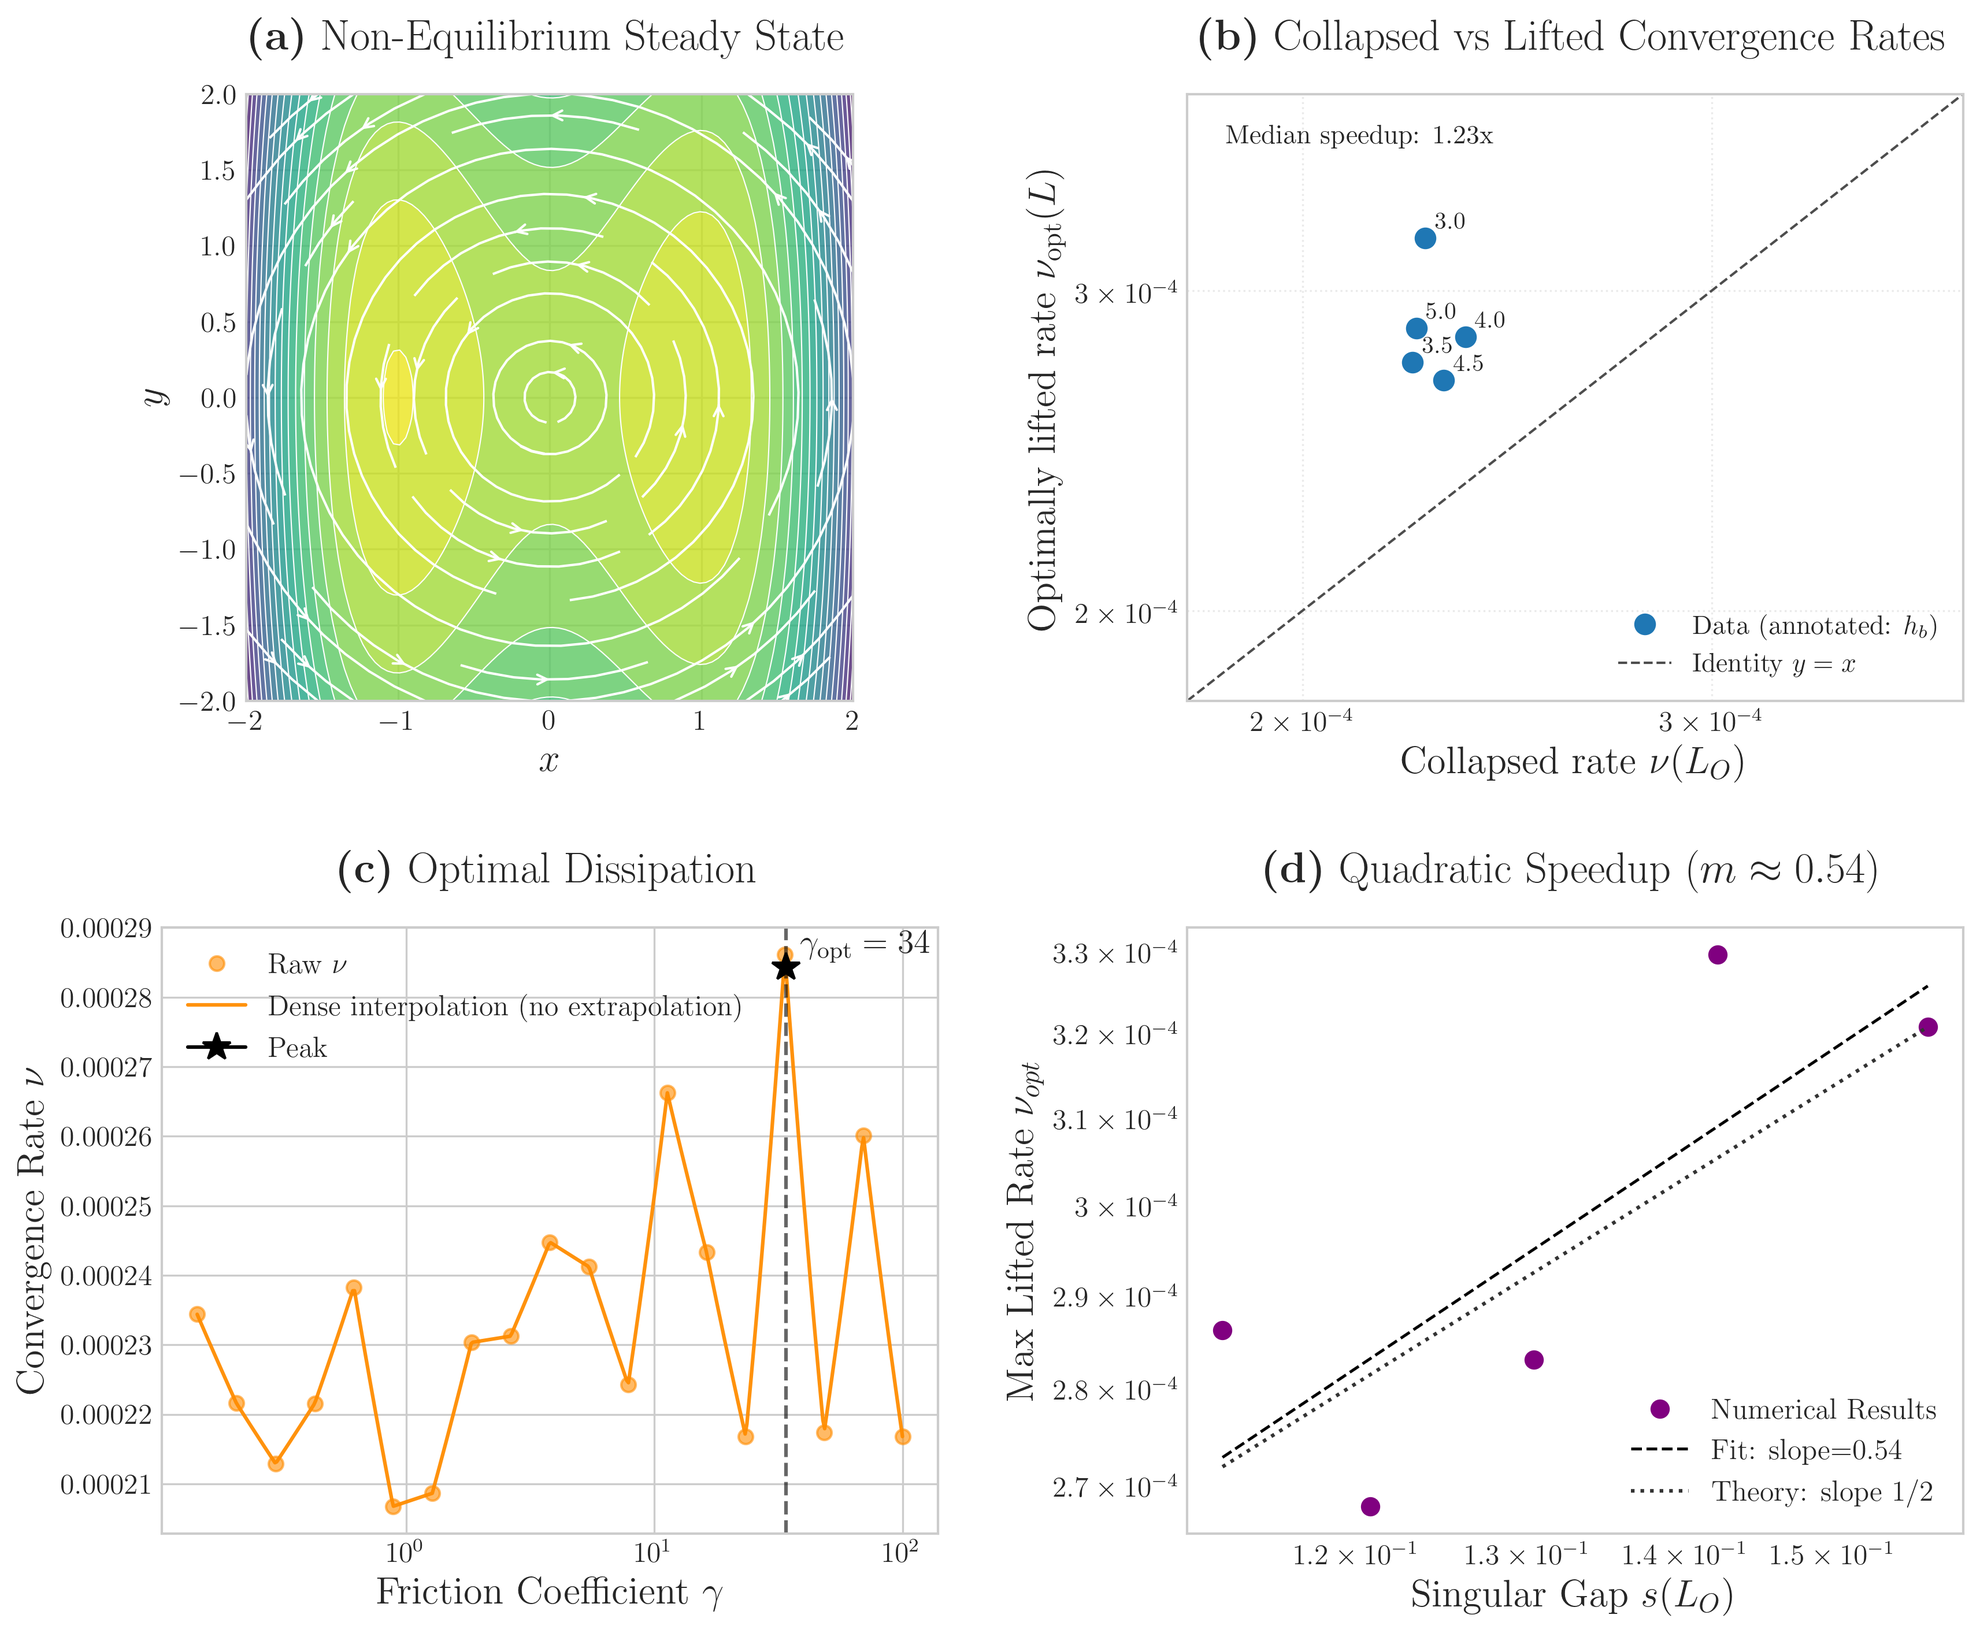
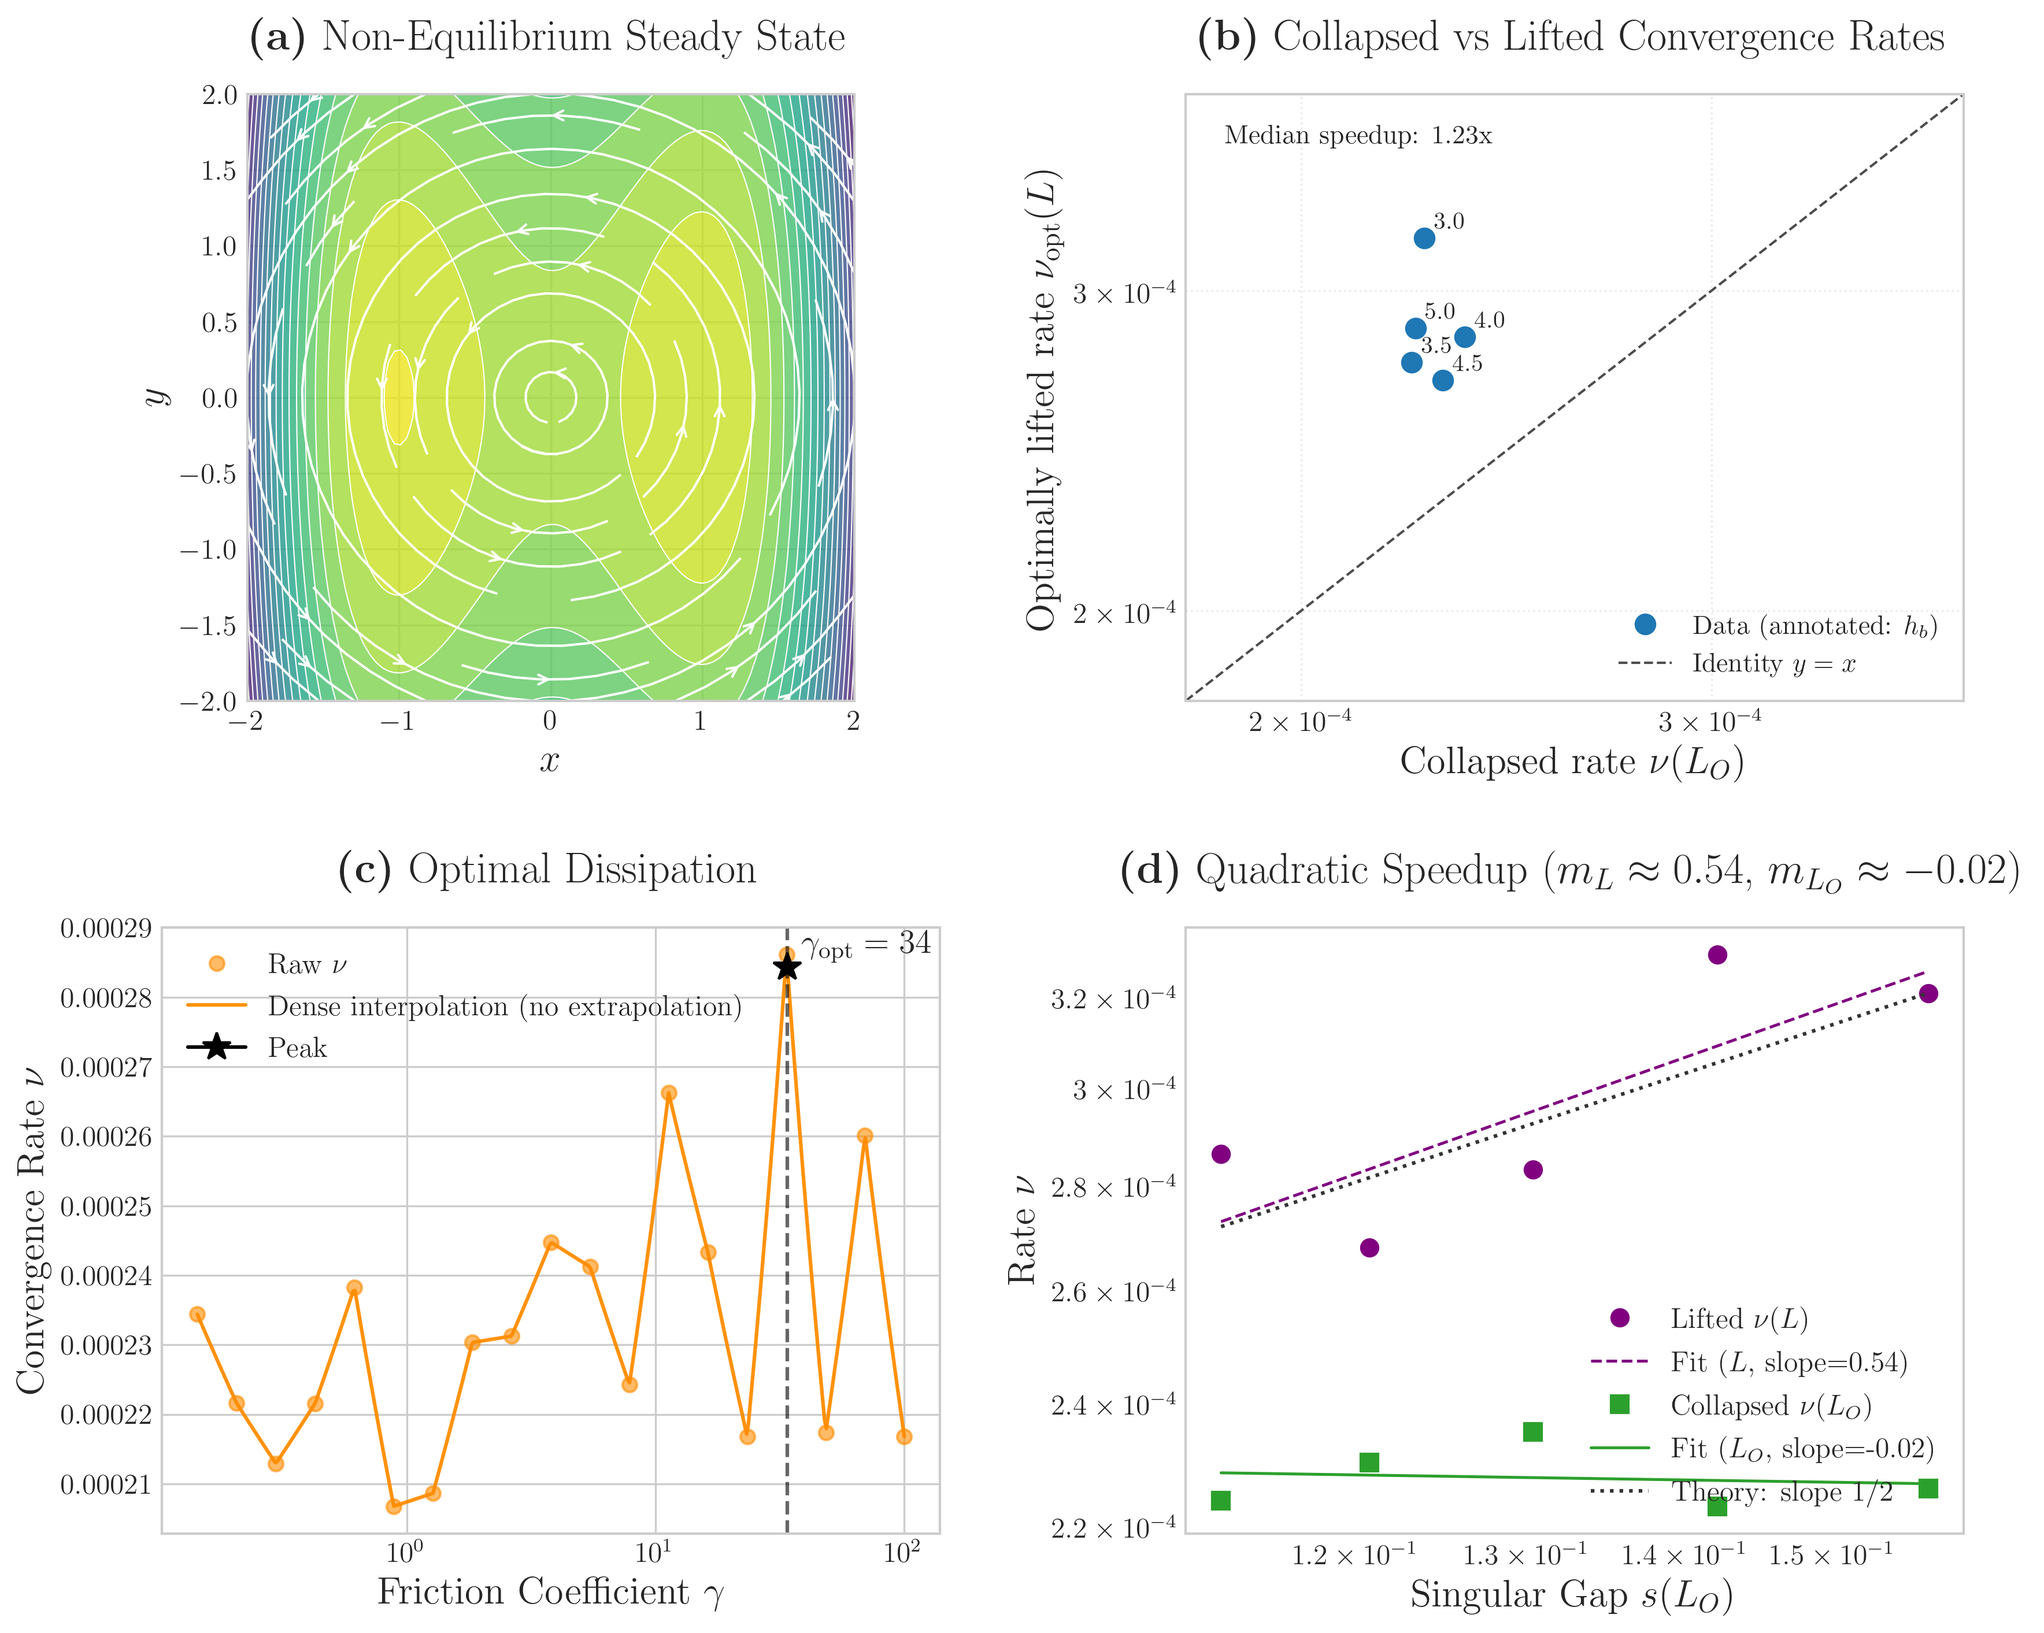
update figure d

diff --git a/diffusion/diffusion_simulation.py b/diffusion/diffusion_simulation.py
@@ -786,9 +786,7 @@ def create_publication_figure(results):
 
     # --- Panel (d): Quadratic Speedup ---
     ax_d = fig.add_subplot(gs[1, 1])
-    s_L_O_vals = np.array([r['s_L_O'] for r in results])
-    # use median-based optimal rates across results
-    # compute bootstrapped nu_opt distributions if repeats are available
+    s_L_O_all = np.array([r['s_L_O'] for r in results], dtype=float)
     quick_flag = os.environ.get('ZENO_QUICK', '0') == '1'
     B = 100 if quick_flag else 200
     nu_max_vals = []
@@ -832,72 +830,107 @@ def create_publication_figure(results):
             nu_log_vars.append(np.nan)
             nu_ci_low.append(np.nan)
             nu_ci_high.append(np.nan)
-    nu_max_vals = np.array(nu_max_vals)
-    nu_log_vars = np.array(nu_log_vars)
-    nu_ci_low = np.array(nu_ci_low)
-    nu_ci_high = np.array(nu_ci_high)
-    
-    valid_data = ~np.isnan(s_L_O_vals) & ~np.isnan(nu_max_vals)
-    s_L_O_vals = s_L_O_vals[valid_data]
-    nu_max_vals = nu_max_vals[valid_data]
 
-    # plot errorbars for nu (CI) when available on log-log axes for clarity
+    nu_max_vals = np.array(nu_max_vals, dtype=float)
+    nu_log_vars = np.array(nu_log_vars, dtype=float)
+    nu_ci_low = np.array(nu_ci_low, dtype=float)
+    nu_ci_high = np.array(nu_ci_high, dtype=float)
+    nu_collapsed_all = np.array([r.get('nu_collapsed', np.nan) for r in results], dtype=float)
+
     ax_d.set_xscale('log')
     ax_d.set_yscale('log')
-    # protect against zero/negative values
-    positive = (s_L_O_vals > 0) & (nu_max_vals > 0)
-    if np.any(positive):
-        x_pts = s_L_O_vals[positive]
-        y_pts = nu_max_vals[positive]
-        # y-errorbars from CI
-        yerr_low = y_pts - nu_ci_low[positive]
-        yerr_high = nu_ci_high[positive] - y_pts
-        # Do not plot error bars (bootstrap CI are noisy for small sample sizes). Plot only points.
-        ax_d.plot(x_pts, y_pts, 'o', color='purple', markersize=7, label='Numerical Results')
 
-        # Fit and plot scaling law (robust log-log fit with simple sigma-clipping)
-        if x_pts.size > 1:
-            log_s = np.log(x_pts)
-            log_nu = np.log(y_pts)
+    def _plot_with_fit(x_vals, y_vals, marker, color, label_points, fit_label, linestyle='--'):
+        mask = np.isfinite(x_vals) & np.isfinite(y_vals) & (x_vals > 0) & (y_vals > 0)
+        if not np.any(mask):
+            return None
+        x_sel = x_vals[mask]
+        y_sel = y_vals[mask]
+        ax_d.plot(x_sel, y_sel, marker, color=color, markersize=7, label=label_points)
 
-            mask = np.ones_like(log_s, dtype=bool)
+        slope = None
+        if x_sel.size > 1:
+            log_x = np.log(x_sel)
+            log_y = np.log(y_sel)
+            fit_mask = np.ones_like(log_x, dtype=bool)
             for _ in range(3):
-                if mask.sum() < 2:
+                if fit_mask.sum() < 2:
                     break
-                coeffs = np.polyfit(log_s[mask], log_nu[mask], 1)
-                pred = coeffs[0] * log_s + coeffs[1]
-                resid = log_nu - pred
-                sigma = np.nanstd(resid[mask])
+                coeffs = np.polyfit(log_x[fit_mask], log_y[fit_mask], 1)
+                pred = coeffs[0] * log_x + coeffs[1]
+                resid = log_y - pred
+                sigma = np.nanstd(resid[fit_mask])
                 sigma = max(sigma, 1e-12)
-                mask = np.abs(resid) < 2.0 * sigma
+                fit_mask = np.abs(resid) < 2.0 * sigma
+            if fit_mask.sum() >= 2:
+                coeffs = np.polyfit(log_x[fit_mask], log_y[fit_mask], 1)
+                slope = coeffs[0]
+                intercept = coeffs[1]
+                x_fit = np.logspace(np.log10(x_sel.min()), np.log10(x_sel.max()), 200)
+                y_fit = np.exp(intercept) * (x_fit ** slope)
+                ax_d.plot(x_fit, y_fit, linestyle, color=color, lw=1.2, label=fit_label.format(slope=slope))
 
-            if mask.sum() >= 2:
-                # final (unweighted) fit on clipped data
-                coeffs = np.polyfit(log_s[mask], log_nu[mask], 1)
-                fit_slope = coeffs[0]
-                fit_intercept = coeffs[1]
-                # prepare fit curve
-                x_fit = np.logspace(np.log10(x_pts.min()), np.log10(x_pts.max()), 200)
-                y_fit = np.exp(fit_intercept) * (x_fit ** fit_slope)
-                ax_d.plot(x_fit, y_fit, 'k--', lw=1.2, label=f'Fit: slope={fit_slope:.2f}')
-            else:
-                fit_slope = np.nan
+        return {
+            'slope': slope,
+            'x': x_sel,
+            'y': y_sel
+        }
 
-        # Theoretical reference (slope 1/2)
-        x_ref = np.logspace(np.log10(x_pts.min()), np.log10(x_pts.max()), 100)
-        y_ref = (x_ref ** 0.5) * (y_pts[0] / (x_pts[0] ** 0.5))
+    opt_info = _plot_with_fit(s_L_O_all, nu_max_vals, 'o', 'purple', r'Lifted $\nu(L)$', 'Fit ($L$, slope={slope:.2f})')
+    lo_info = _plot_with_fit(s_L_O_all, nu_collapsed_all, 's', 'tab:green', r'Collapsed $\nu(L_O)$', 'Fit ($L_O$, slope={slope:.2f})', linestyle='-')
+
+    x_arrays = []
+    if opt_info:
+        x_arrays.append(opt_info['x'])
+    if lo_info:
+        x_arrays.append(lo_info['x'])
+    if x_arrays:
+        x_all = np.concatenate(x_arrays)
+    else:
+        x_all = np.array([])
+
+    if x_all.size >= 2:
+        x_ref = np.logspace(np.log10(x_all.min()), np.log10(x_all.max()), 100)
+    else:
+        x_ref = np.array([])
+
+    base_const = None
+    if opt_info and opt_info['x'].size > 0:
+        base_const = opt_info['y'][0] / (opt_info['x'][0] ** 0.5)
+    elif lo_info and lo_info['x'].size > 0:
+        base_const = lo_info['y'][0] / (lo_info['x'][0] ** 0.5)
+
+    if x_ref.size > 0 and base_const is not None and np.isfinite(base_const):
+        y_ref = base_const * (x_ref ** 0.5)
         ax_d.plot(x_ref, y_ref, color='0.2', linestyle=':', lw=1.5, label=r'Theory: slope $1/2$')
 
-        if not np.isnan(fit_slope):
-            ax_d.set_title(r'\textbf{{(d)}} Quadratic Speedup ($m \approx {:.2f}$)'.format(fit_slope), y=1.05)
-        else:
-            ax_d.set_title(r'\textbf{(d)} Quadratic Speedup', y=1.05)
+    if opt_info:
+        slope_opt = opt_info['slope']
     else:
-        ax_d.text(0.5, 0.5, 'Insufficient positive data for panel (d)', ha='center', va='center')
-        ax_d.set_title(r'\textbf{(d)} Quadratic Speedup', y=1.05)
+        slope_opt = None
+    if lo_info:
+        slope_lo = lo_info['slope']
+    else:
+        slope_lo = None
 
+    title_terms = []
+    if slope_opt is not None and np.isfinite(slope_opt):
+        # put \mathrm inside math mode so LaTeX accepts it
+        title_terms.append('$' + r'm_{L}\approx' + f'{slope_opt:.2f}' + '$')
+    if slope_lo is not None and np.isfinite(slope_lo):
+        title_terms.append('$' + r'm_{L_O}\approx' + f'{slope_lo:.2f}' + '$')
+
+    if title_terms:
+        title_text = r'\textbf{(d)} Quadratic Speedup (' + ', '.join(title_terms) + ')'
+    else:
+        title_text = r'\textbf{(d)} Quadratic Speedup'
+
+    if not opt_info and not lo_info:
+        ax_d.text(0.5, 0.5, 'Insufficient positive data for panel (d)', ha='center', va='center')
+
+    ax_d.set_title(title_text, y=1.05)
     ax_d.set_xlabel(r'Singular Gap $s(L_O)$')
-    ax_d.set_ylabel(r'Max Lifted Rate $\nu_{opt}$')
+    ax_d.set_ylabel(r'Rate $\nu$')
     ax_d.legend(loc='lower right')
 
     plt.tight_layout(pad=2.0)

diff --git a/spin/spin_simulation.py b/spin/spin_simulation.py
@@ -1023,50 +1023,105 @@ def create_publication_figure(results):
 
     # --- Panel (d): Quadratic Speedup ---
     ax_d = fig.add_subplot(gs[1, 1])
-    s_L_O_vals = np.array([enriched.get('s_L_O_display', enriched['s_L_O'] * S_LO_DISPLAY_SCALE) for enriched in enriched_results])
-    nu_max_vals = np.array([enriched.get('nu_max', np.nan) for enriched in enriched_results])
-    
-    valid_data = np.isfinite(s_L_O_vals) & np.isfinite(nu_max_vals) & (s_L_O_vals > 0) & (nu_max_vals > 0)
-    
-    if valid_data.sum() >= 2:
-        x_pts = s_L_O_vals[valid_data]
-        y_pts = nu_max_vals[valid_data]
-        # Check for meaningful spread in x and y before attempting a log-log fit
-        x_spread_ok = (np.isfinite(x_pts).all() and x_pts.max() / (x_pts.min() + 1e-30) > 1.02)
-        y_spread_ok = (np.isfinite(y_pts).all() and y_pts.max() / (y_pts.min() + 1e-30) > 1.02)
+    s_L_O_all = np.array(
+        [enriched.get('s_L_O_display', enriched['s_L_O'] * S_LO_DISPLAY_SCALE) for enriched in enriched_results],
+        dtype=float,
+    )
+    nu_opt_all = np.array([enriched.get('nu_max', np.nan) for enriched in enriched_results], dtype=float)
+    nu_collapsed_all = np.array([enriched.get('nu_collapsed', np.nan) for enriched in enriched_results], dtype=float)
 
-        if x_spread_ok and y_spread_ok and (x_pts.min() > 0) and (y_pts.min() > 0):
-            ax_d.set_xscale('log')
-            ax_d.set_yscale('log')
-            ax_d.plot(x_pts, y_pts, 'o', color='purple', markersize=7, label='Numerical Results')
+    ax_d.set_xscale('log')
+    ax_d.set_yscale('log')
 
-            # Fit and plot scaling law
-            log_s = np.log10(x_pts)
-            log_nu = np.log10(y_pts)
-            coeffs = np.polyfit(log_s, log_nu, 1)
-            fit_slope = coeffs[0]
-            fit_intercept = coeffs[1]
+    def _plot_with_fit(x_vals, y_vals, marker, color, label_points, fit_label, linestyle='--'):
+        mask = np.isfinite(x_vals) & np.isfinite(y_vals) & (x_vals > 0) & (y_vals > 0)
+        if not np.any(mask):
+            return None
 
-            x_fit = np.logspace(np.log10(x_pts.min()), np.log10(x_pts.max()), 100)
-            y_fit = (10**fit_intercept) * (x_fit ** fit_slope)
-            ax_d.plot(x_fit, y_fit, 'k--', lw=1.2, label=f'Fit: slope={fit_slope:.2f}')
+        x_sel = x_vals[mask]
+        y_sel = y_vals[mask]
+        ax_d.plot(x_sel, y_sel, marker, color=color, markersize=7, label=label_points)
 
-            # Theoretical reference (slope 1/2)
-            y_ref = (x_fit ** 0.5) * (y_pts[0] / (x_pts[0] ** 0.5)) # Rescaled
-            ax_d.plot(x_fit, y_ref, color='0.2', linestyle=':', lw=1.5, label=r'Theory: slope $1/2$')
+        slope = None
+        if x_sel.size > 1:
+            log_x = np.log(x_sel)
+            log_y = np.log(y_sel)
+            fit_mask = np.ones_like(log_x, dtype=bool)
+            for _ in range(3):
+                if fit_mask.sum() < 2:
+                    break
+                coeffs = np.polyfit(log_x[fit_mask], log_y[fit_mask], 1)
+                pred = coeffs[0] * log_x + coeffs[1]
+                resid = log_y - pred
+                sigma = np.nanstd(resid[fit_mask])
+                sigma = max(sigma, 1e-12)
+                fit_mask = np.abs(resid) < 2.0 * sigma
+            if fit_mask.sum() >= 2:
+                coeffs = np.polyfit(log_x[fit_mask], log_y[fit_mask], 1)
+                slope = coeffs[0]
+                intercept = coeffs[1]
+                x_fit = np.logspace(np.log10(x_sel.min()), np.log10(x_sel.max()), 200)
+                y_fit = np.exp(intercept) * (x_fit ** slope)
+                ax_d.plot(x_fit, y_fit, linestyle, color=color, lw=1.2, label=fit_label.format(slope=slope))
 
-            ax_d.set_title(r'\textbf{{(d)}} Quadratic Speedup ($m \approx {:.2f}$)'.format(fit_slope), pad=12)
-        else:
-            # Not enough spread to perform a meaningful fit. Show raw points (with small jitter) and a note.
-            ax_d.plot(np.arange(len(y_pts)), y_pts, 'o', color='purple', markersize=7, label='Numerical Results (no fit)')
-            ax_d.set_xscale('linear')
-            ax_d.set_yscale('log' if (y_pts.min() > 0 and y_pts.max()/y_pts.min() > 1.2) else 'linear')
-            ax_d.set_title(r'\textbf{(d)} Quadratic Speedup (insufficient spread for fit)', pad=12)
-            ax_d.text(0.5, 0.9, 'Insufficient variation in singular gap or rates to fit a scaling law.', transform=ax_d.transAxes, ha='center', va='top', fontsize=9)
-            ax_d.set_xlabel('Index (insufficient spread in s(L_O))')
+        return {
+            'slope': slope,
+            'x': x_sel,
+            'y': y_sel,
+        }
+
+    opt_info = _plot_with_fit(s_L_O_all, nu_opt_all, 'o', 'purple', r'Lifted $\nu(L)$', 'Fit ($L$, slope={slope:.2f})')
+    collapsed_info = _plot_with_fit(
+        s_L_O_all,
+        nu_collapsed_all,
+        's',
+        'tab:green',
+        r'Collapsed $\nu(L_O)$',
+        'Fit ($L_O$, slope={slope:.2f})',
+        linestyle='-'
+    )
+
+    x_arrays = []
+    if opt_info:
+        x_arrays.append(opt_info['x'])
+    if collapsed_info:
+        x_arrays.append(collapsed_info['x'])
+    x_all = np.concatenate(x_arrays) if x_arrays else np.array([])
+
+    if opt_info and opt_info['x'].size > 0:
+        base_const = opt_info['y'][0] / (opt_info['x'][0] ** 0.5)
+    elif collapsed_info and collapsed_info['x'].size > 0:
+        base_const = collapsed_info['y'][0] / (collapsed_info['x'][0] ** 0.5)
     else:
-        ax_d.text(0.5, 0.5, 'Insufficient data for plot (d)', ha='center', va='center')
-    ax_d.set_title(r'\textbf{(d)} Quadratic Speedup', pad=12)
+        base_const = None
+
+    if x_all.size >= 2:
+        x_ref = np.logspace(np.log10(x_all.min()), np.log10(x_all.max()), 100)
+    else:
+        x_ref = np.array([])
+
+    if x_ref.size > 0 and base_const is not None and np.isfinite(base_const):
+        y_ref = base_const * (x_ref ** 0.5)
+        ax_d.plot(x_ref, y_ref, color='0.2', linestyle=':', lw=1.5, label=r'Theory: slope $1/2$')
+
+    slope_opt = opt_info['slope'] if opt_info else None
+    slope_collapsed = collapsed_info['slope'] if collapsed_info else None
+
+    title_terms = []
+    if slope_opt is not None and np.isfinite(slope_opt):
+        title_terms.append('$' + r'm_{L}\approx' + f'{slope_opt:.2f}' + '$')
+    if slope_collapsed is not None and np.isfinite(slope_collapsed):
+        title_terms.append('$' + r'm_{L_O}\approx' + f'{slope_collapsed:.2f}' + '$')
+
+    if title_terms:
+        title_text = r'\textbf{(d)} Quadratic Speedup (' + ', '.join(title_terms) + ')'
+    else:
+        title_text = r'\textbf{(d)} Quadratic Speedup'
+
+    if not opt_info and not collapsed_info:
+        ax_d.text(0.5, 0.5, 'Insufficient positive data for plot (d)', ha='center', va='center')
+
+    ax_d.set_title(title_text, pad=12)
 
     if S_LO_DISPLAY_SCALE != 1.0:
         xlabel = rf'Singular Gap $s(L_O)$ (display × {S_LO_DISPLAY_SCALE:.2g})'
@@ -1074,7 +1129,7 @@ def create_publication_figure(results):
     else:
         xlabel = r'Singular Gap $s(L_O)$'
     ax_d.set_xlabel(xlabel)
-    ax_d.set_ylabel(r'Max Lifted Rate $\nu_{\mathrm{opt}}$')
+    ax_d.set_ylabel(r'Rate $\nu$')
     ax_d.legend(loc='lower right')
 
     fig.subplots_adjust(left=0.08, right=0.98, bottom=0.08, top=0.94, wspace=0.28, hspace=0.35)
